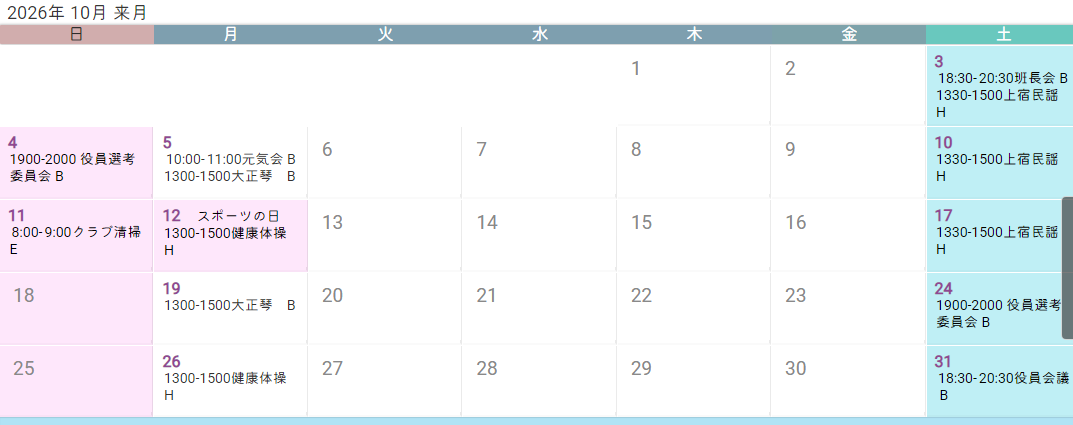
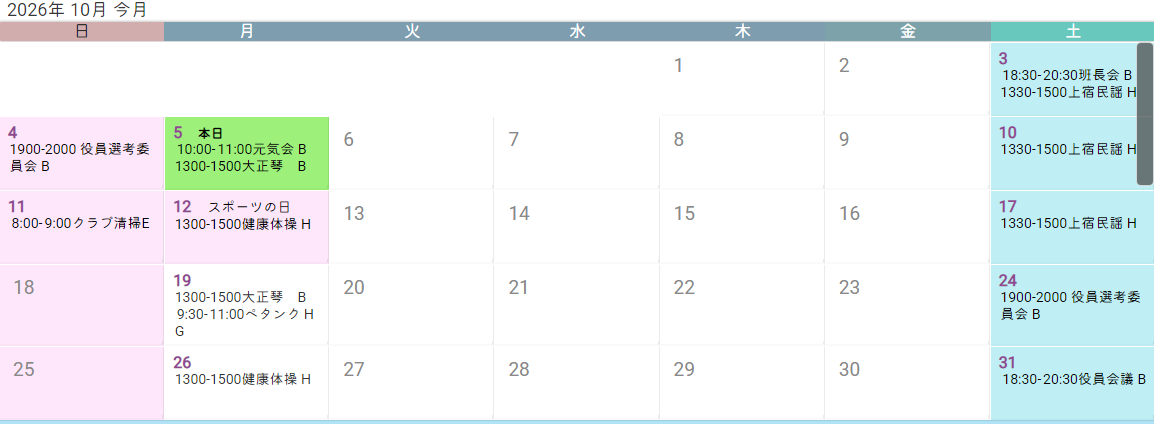
Add files via upload

diff --git a/index.html b/index.html
@@ -11,22 +11,22 @@
     <h2>上宿クラブ予定表</h2>
       <ul id="future_calendar">
         <p>予定表は新しい画面(タブ)にて表示されます。確認後予定表を閉じてください。<br> <!--改行--></p> 
-        <li><a href="calendar202609.PNG" target="_blank">２０２６年９月</a>
         <li><a href="calendar202610.PNG" target="_blank">２０２６年１０月</a>
         <li><a href="calendar202611.PNG" target="_blank">２０２６年１１月</a>
-        <li><a href="calendar202612.PNG" target="_blank">２０２６年１２月</a>  
+        <li><a href="calendar202612.PNG" target="_blank">２０２６年１２月</a> 
+        <li><a href="calendar202701.PNG" target="_blank">２０２７年０１月</a>   
         <p>クラブの予約は、予定表にて空きを確認してから <br> <!--改行-->
            SMS又は電話にて会計まで連絡してください。<br> <!--改行-->
            クラブ予定表の見方は　<a href="calender_index.html">こちら</a></p>
       </ul>
     <h3>過去の予定表</h3>
       <ul id="past_calendar">
+        <li><a href="calendar202609.PNG" target="_blank">２０２６年９月</a>
         <li><a href="calendar202608.PNG" target="_blank">２０２６年８月</a>
         <li><a href="calendar202607.PNG" target="_blank">２０２６年７月</a>
-        <li><a href="calendar202606.PNG" target="_blank">２０２６年６月</a>
       </ul>
     <hr> <!--横線を引く-->
-    <small>　最終更新日　2026年9月11日<br>
+    <small>　最終更新日　2026年10月05日<br>
           Copyright (c)  認可地縁団体法人　第３区　All Rights Reserved.</small>
   </body>
 </html>
